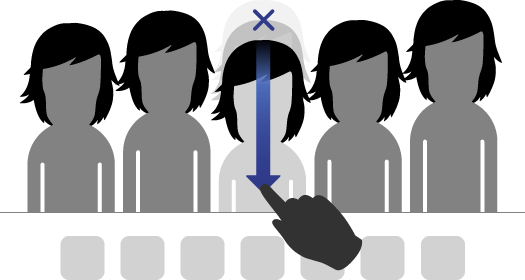
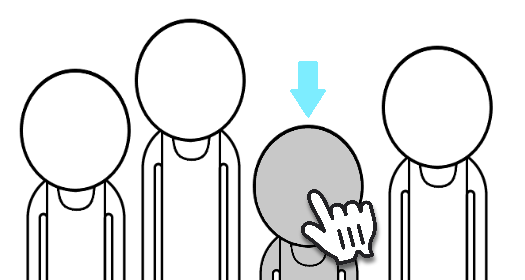
v2.5 releases today!

diff --git a/README.md b/README.md
@@ -1,24 +1,20 @@
 # Foreverbox
-
-What is this mod?
-
+What is this mod? <br>
 The mod ever, that's what.
 
-# Play in Browser
+Feel free to check out the [changelog](/CHANGELOG.md).
 
-* itch.io: https://joalor64.itch.io/foreverbox/
-* My Website: https://sites.google.com/view/joalor64website-new/foreverbox/
+## Play on My Website
+* https://sites.google.com/view/joalor64website-new/foreverbox/
 
-# Downloads
-
+## Downloads
 * PC: https://mega.nz/file/fHghmCpL#AK8fCsP24j0tRh_h-nXtDOeoxtW_76RD16Ca3jhsAec
 * Android: https://mega.nz/file/GeB1hIQI#_1doR18TWxRespbA2Vepzq0Ph_7W3Bm2h8jmo0_1zaw
 
-# Credits
+## Credits
+* Joalor64 - Made the Mod
+* SO FAR SO GOOD - Incredibox
 
-* Joalor64 (me!) - Made the Mod
-* [SO FAR SO GOOD](sofarsogood.fr) - Incredibox
-
-## Special Thanks
+### Special Thanks
 * [PFF](https://www.youtube.com/@Incredifrance62) - Fixed the Android port, W man
 * [BOOGO x SEAL](https://boogoxseal.xyz) - Incredibox Modding Tools

diff --git a/CHANGELOG.md b/CHANGELOG.md
@@ -1,0 +1,27 @@
+# Changelog
+
+## [V2.5] - 2024-4-27 (Latest)
+* V1: Battle (All Bonuses)
+* V2: Ascension (All Bonuses)
+* Updated tutorial graphics
+* Fixed V2 Homescreen
+
+## [V2.0] - 2023-12-25
+* V2: Ascension Release
+* Minor changes to V1: Battle
+    * Fixed B4 and E3 Anims
+    * Changed E2 and M3 Anims
+    * Anims for V2, V3, V4, and V5
+    * New sounds for V4 and V5
+    * Updated V4 Sprite
+    * Updated Bonus 1 Video
+    * New Bonus Icons
+* Fixed `jquery.js`
+* Added a favicon
+* Changed dark mode color
+
+## [V1.0] - 2023-10-14
+* V1: Battle Full Version
+
+## [V1.0-DEMO] - 2023-8-10
+* V1: Battle Demo Release
